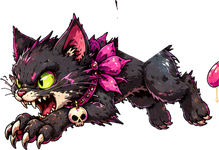
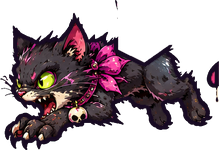
World 2 readability baked into the art (outlines, muted backgrounds, darker castle) plus shadows, pickup discs and red warning tint; World 1 untouched (test branch)
Claude-Session: https://claude.ai/code/session_01KtnnmncaZrvFEhmEP7SEfj

Changed region(s): [[0.1096, 0.08, 0.9589, 0.9067], [0.0, 0.1867, 0.274, 1.0], [0.9315, 0.4, 1.0, 0.6933]]

diff --git a/src/scenes/Run.js b/src/scenes/Run.js
@@ -3,6 +3,7 @@
 import { Gremlin } from '../gremlin/Gremlin.js';
 import { WORLDS, worldNo, loadMeadow } from '../worlds.js';
 import { Music } from '../audio/Music.js';
+import { shadow, gremlinShadow, makePickupDisc, dangerTint } from '../world/Readability.js';
 import { Frog, Gator, Bat, Spider } from '../creatures/Creatures.js';
 import { Bunny, Kitten, Flower, Swarm } from '../creatures/Meadow.js';
 
@@ -65,6 +66,9 @@ export class Run extends Phaser.Scene {
     this.shadowG = this.add.graphics().setDepth(4.6);   // dark contact shadows that sit hazards ON the path
     this.boxG = this.add.graphics().setDepth(30);
 
+    this.w2 = this.world === 2;   // World 2 readability extras (World 1 stays exactly as approved)
+    this.gremlinTex = this.w2 ? 'g2_' : 'g_';
+    if (this.w2) makePickupDisc(this);
     this.g = new Gremlin(this, GREMLIN_X, GROUND_Y, GREMLIN_H);
     this.g.floorAt = x => this.platformAt(x);
     this.g.idle();
@@ -122,7 +126,7 @@ export class Run extends Phaser.Scene {
     this.swamp.scroll(this.dist);
     this.updateItems(dt);
     const ctx = { gx: this.g.x, groundY: GROUND_Y, scroll: v * dt * (this.mode === 'ready' ? 0 : 1) };
-    for (const c of this.creatures) c.update(dt, ctx);
+    for (const c of this.creatures) { c.update(dt, ctx); if (this.w2) dangerTint(c, this.time.now / 1000); }
     for (const c of this.creatures) if (c.gone) c.destroy();
     this.creatures = this.creatures.filter(c => !c.gone);
     this.updateOrbs(dt);
@@ -140,11 +144,11 @@ export class Run extends Phaser.Scene {
       if (!it.obj && !it.done && x < W + 500) this.spawnItem(it, x);
       if (!it.obj) continue;
       it.obj.x = x;
-      if (PICKUPS.has(it.t)) it.obj.y = GROUND_Y - it.h + 8 * Math.sin(t * 3 + it.d);
+      if (PICKUPS.has(it.t)) { it.obj.y = GROUND_Y - it.h + 8 * Math.sin(t * 3 + it.d); it.disc?.setPosition(x, it.obj.y); }
       if (it.t === 'sludge' || it.t === 'sludgeWide') it.obj.scaleY = it.baseScale * (1 + 0.025 * Math.sin(t * 5 + it.d));   // slow bubbling heave
       if (it.t === 'vines') it.obj.rotation = 0.012 * Math.sin(t * 1.6 + it.d);                                                  // gentle sway
       if (it.glow) it.glow.outerStrength = 2.6 + 1.6 * (0.5 + 0.5 * Math.sin(t * 5));                                            // warning pulse
-      if (x < -600) { it.obj.destroy(); it.obj = null; it.done = true; }
+      if (x < -600) { it.obj.destroy(); it.disc?.destroy(); it.obj = null; it.done = true; }
       if (it.t === 'finish' && !it.reached && this.mode === 'running' && x <= GREMLIN_X) { it.reached = true; this.finish(); }
     }
   }
@@ -161,12 +165,13 @@ export class Run extends Phaser.Scene {
       const B = BEAM[it.lane], T = this.cache.json.get('meadowInfo').turret;
       o = this.add.image(x, GROUND_Y + B.sink, 'm_turret').setOrigin(0.35, 1).setScale(B.s * 2).setDepth(3.5);
       it.state = 'idle'; it.st = 0;
-      if (o.preFX) it.glow = o.preFX.addGlow(0xff4fd8, 2, 0, false, 0.1, 10);
+
     } else if (it.t === 'vines') {
       // a slimy branch hanging overhead: vine tips stop ~150 px above the ground, so you have to slide
       o = this.add.image(x, GROUND_Y - 140, L.key).setOrigin(0.5, 1).setScale(L.s).setDepth(9);
     } else if (PICKUPS.has(it.t)) {
       o = this.add.image(x, GROUND_Y - it.h, L.key).setScale(L.s).setDepth(7);
+      if (this.w2) it.disc = this.add.image(x, GROUND_Y - it.h, 'pickDisc').setDepth(6.9).setScale(0.78);   // dark disc behind pickups (World 2)
     } else if (L) {
       o = this.add.image(x, GROUND_Y + L.sink, L.key).setOrigin(0.5, 1).setScale(L.s).setDepth(5);
       it.baseScale = L.s;
@@ -216,7 +221,7 @@ export class Run extends Phaser.Scene {
     }
   }
   collect(it) {
-    it.done = true; const o = it.obj;
+    it.done = true; const o = it.obj; it.disc?.destroy(); it.disc = null;
     this.g.fx.burst([o.x, o.y], 0.4);
     this.tweens.add({ targets: o, scale: o.scale * 1.6, alpha: 0, duration: 200, onComplete: () => { o.destroy(); } });
     it.obj = null;
@@ -236,6 +241,10 @@ export class Run extends Phaser.Scene {
   drawHazardFx() {
     const G = this.hazG; G.clear(); const t = this.time.now / 1000;
     const S = this.shadowG; S.clear();
+    if (this.w2) {   // shadows under the gremlin and the ground creatures (World 2)
+      if (!this.g.dead) gremlinShadow(S, this.g);
+      for (const c of this.creatures) if (!c.dead && c.kind !== 'swarm') shadow(S, c.x, GROUND_Y, c.kind === 'flower' ? 230 : 180, c.y || 0);
+    }
     for (const it of this.items) {
       if (!it.obj || it.done) continue;
       const sw = SHADOW_W[it.t];
@@ -267,7 +276,7 @@ export class Run extends Phaser.Scene {
       else if (it.state === 'fire' && it.st >= BEAM.fire) { it.state = 'done'; it.st = 0; }
       if (it.state === 'warn') {   // the lens glows brighter and a sparkling guide line shows exactly where the beam will go
         const k = it.st / BEAM.warn, blink = 0.5 + 0.5 * Math.sin(now * (14 + 20 * k));
-        if (it.glow) it.glow.outerStrength = 2 + 8 * k;
+        o.setTint(Phaser.Display.Color.GetColor(255, Math.round(255 - 120 * k * blink), 255));   // the turret flushes pink as it charges
         G.fillStyle(0xff7ae0, 0.25 + 0.4 * k * blink).fillCircle(lensX, yc, 30 + 30 * k);
         for (let x = lensX - 40; x > -40; x -= 46) G.fillStyle(0xffffff, (0.25 + 0.55 * k) * (0.5 + 0.5 * Math.sin(now * 20 + x * 0.05))).fillCircle(x, yc, 4 + 3 * k);
         G.lineStyle(2, 0xff9ce8, 0.35 + 0.4 * k).lineBetween(-40, yc - th / 2, lensX, yc - th / 2).lineBetween(-40, yc + th / 2, lensX, yc + th / 2);
@@ -276,7 +285,7 @@ export class Run extends Phaser.Scene {
         const w = Math.max(0, lensX + 20); it.beam.setPosition(0, yc + 3 * Math.sin(now * 40)).setSize(w, th * 1.6).setTileScale(1, th * 1.6 / 200);
         it.beam.tilePositionX -= dt * 2400; it.beam.setAlpha(Math.min(1, it.st * 12, (BEAM.fire - it.st) * 10));
         G.fillStyle(0xffffff, 0.8).fillCircle(lensX, yc, th * 0.7);
-      } else if (it.beam) { it.beam.destroy(); it.beam = null; if (it.glow) it.glow.outerStrength = 2; }
+      } else if (it.beam) { it.beam.destroy(); it.beam = null; o.clearTint(); }
     }
   }
   blinded() {

diff --git a/src/creatures/Meadow.js b/src/creatures/Meadow.js
@@ -7,14 +7,13 @@ const clamp = (v, a, b) => Math.max(a, Math.min(b, v));
 const ease = k => (k < 0 ? 0 : k > 1 ? 1 : k * k * (3 - 2 * k));
 const rnd = (a, b) => a + Math.random() * (b - a);
 const D = Math.PI / 180;
-// the meadow is busy and bright: a light outline keeps every creature readable against the flowers
-function outline(p, col = 0xffffff) { for (const im of p.images) if (im.preFX) im.preFX.addGlow(col, 3, 0, false, 0.1, 6); return p; }
+
 
 // ---------------- Killer bunny: hops at the gremlin in low bounding leaps. Jump it or blast it. ----------------
 export class Bunny extends Creature {
   constructor(scene, x, groundY) {
     super(scene, x, 'bunny');
-    this.groundY = groundY; this.p = outline(new Puppet(scene, 'bunny', 0.5, ['body', 'ears']), 0xff3a6a);
+    this.groundY = groundY; this.p = new Puppet(scene, 'bunny', 0.5, ['body', 'ears']);
     this.R = this.p.R; this.points = 50; this.st = 'sit'; this.stT = rnd(0, 0.5); this.y = 0; this.hopT = 0;
   }
   update(dt, ctx) {
@@ -30,7 +29,10 @@ export class Bunny extends Creature {
       const gap = this.x - ctx.gx;
       if (this.st === 'sit') {   // twitchy nose, ears flicking
         sq = 1 + 0.03 * Math.sin(this.t * 12); ears = 8 * Math.sin(this.t * 11);
-        if (gap < 950 && gap > 0 && this.stT > 0.3) { this.st = 'hop'; this.hopT = 0; }
+        if (gap < 1000 && gap > 0 && this.stT > 0.3) { this.st = 'ready'; this.stT = 0; }
+      } else if (this.st === 'ready') {   // the warning: crouches low, ears flat
+        sq = 0.82; ears = -30;
+        if (this.stT > 0.4) { this.st = 'hop'; this.hopT = 0; }
       } else if (this.st === 'hop') {   // bounding leaps straight at the gremlin
         this.hopT += dt; const T = 0.44, u = (this.hopT % T) / T;
         this.y = 115 * 4 * u * (1 - u); this.x -= 360 * dt;
@@ -47,6 +49,7 @@ export class Bunny extends Creature {
     if (this.x < -400) this.gone = true;
   }
   onHurt() { this.st = 'recoil'; this.stT = 0; }
+  get warning() { return this.st === 'ready'; }
   hitbox() { if (this.dead) return null; return new Phaser.Geom.Rectangle(this.x - 85, this.groundY - this.y - 125, 165, 120); }
   get centre() { return [this.x, this.groundY - this.y - 60]; }
   destroy() { this.p.destroy(); }
@@ -56,7 +59,7 @@ export class Bunny extends Creature {
 export class Kitten extends Creature {
   constructor(scene, x, groundY) {
     super(scene, x, 'kitten');
-    this.groundY = groundY; this.p = outline(new Puppet(scene, 'kitten', 0.5, ['tail', 'body']), 0xfff0ff);
+    this.groundY = groundY; this.p = new Puppet(scene, 'kitten', 0.5, ['tail', 'body']);
     this.R = this.p.R; this.points = 50; this.st = 'crouch'; this.stT = 0; this.y = 0;
   }
   update(dt, ctx) {
@@ -94,6 +97,7 @@ export class Kitten extends Creature {
     if (this.x < -400) this.gone = true;
   }
   onHurt() { this.st = 'recoil'; this.stT = 0; }
+  get warning() { return this.st === 'wiggle' || this.st === 'pounce'; }
   hitbox() { if (this.dead) return null; return new Phaser.Geom.Rectangle(this.x - 105, this.groundY - this.y - 120, 200, 105); }
   get centre() { return [this.x, this.groundY - this.y - 55]; }
   destroy() { this.p.destroy(); }
@@ -103,7 +107,7 @@ export class Kitten extends Creature {
 export class Flower extends Creature {
   constructor(scene, x, groundY) {
     super(scene, x, 'flower');
-    this.groundY = groundY; this.p = outline(new Puppet(scene, 'flower', 0.56, ['body', 'head']), 0xffe14a);
+    this.groundY = groundY; this.p = new Puppet(scene, 'flower', 0.56, ['body', 'head']);
     this.R = this.p.R; this.points = 150; this.hp = 3; this.st = 'idle'; this.stT = 0; this.reach = 0;
   }
   update(dt, ctx) {
@@ -137,6 +141,7 @@ export class Flower extends Creature {
     if (this.x < -500) this.gone = true;
   }
   onHurt() { this.st = 'recoil'; this.stT = 0; }
+  get warning() { return this.st === 'rear' || this.st === 'snap'; }
   hitbox() {
     if (this.dead) return null;
     const w = 230 + this.reach;

diff --git a/src/world/Readability.js b/src/world/Readability.js
@@ -1,0 +1,38 @@
+// World 2 readability (15 Oct 2026). Outlines and muted backgrounds are baked into the image files themselves
+// (see the art notes in the GDD addendum); here are only the plain drawn extras, which work on every phone:
+// ground shadows, the disc behind pickups, and the red warning tint on enemies.
+
+export const DANGER_TINT = 0xff5a5a;
+
+/** Soft ground shadow (drawn into a Graphics each frame). h = how high above the ground the thing is. */
+export function shadow(G, x, groundY, w, h = 0) {
+  const k = Math.max(0.35, 1 - h / 500);
+  G.fillStyle(0x0a0510, 0.32 * k).fillEllipse(x, groundY + 4, w * k, 30 * k);
+  G.fillStyle(0x0a0510, 0.22 * k).fillEllipse(x, groundY + 4, w * 1.3 * k, 44 * k);
+}
+/** Shadow under the gremlin, on whatever surface is below him (ground or platform). */
+export function gremlinShadow(G, g) {
+  const surf = g.floorAt ? g.floorAt(g.x) : 0, h = Math.max(0, g.S.h * g.k - surf);
+  shadow(G, g.x + 10 * g.face, g.groundY - surf, 200, h);
+}
+/** The dark disc with a gold rim that sits behind every pickup. */
+export function makePickupDisc(scene) {
+  if (scene.textures.exists('pickDisc')) return;
+  const t = scene.textures.createCanvas('pickDisc', 160, 160), c = t.getContext();
+  const g = c.createRadialGradient(80, 80, 10, 80, 80, 72);
+  g.addColorStop(0, 'rgba(20,8,34,.78)'); g.addColorStop(0.75, 'rgba(20,8,34,.62)'); g.addColorStop(1, 'rgba(20,8,34,0)');
+  c.fillStyle = g; c.beginPath(); c.arc(80, 80, 72, 0, Math.PI * 2); c.fill();
+  c.strokeStyle = 'rgba(255,240,170,.9)'; c.lineWidth = 4; c.beginPath(); c.arc(80, 80, 56, 0, Math.PI * 2); c.stroke();
+  t.refresh();
+}
+/** Pulse a creature red while it winds up an attack (a plain tint: no special effects). */
+export function dangerTint(c, t) {
+  const on = c.warning && !c.dead;
+  if (on === c._warnOn && !on) return;
+  c._warnOn = on;
+  if (c.flashT > 0) return;   // the white hit-flash wins
+  for (const im of c.p.images) {
+    if (on) { const k = 0.5 + 0.5 * Math.sin(t * 22); im.setTint(Phaser.Display.Color.GetColor(255, Math.round(255 - 150 * k), Math.round(255 - 150 * k))); }
+    else im.clearTint();
+  }
+}

diff --git a/src/scenes/Overlord.js b/src/scenes/Overlord.js
@@ -9,6 +9,7 @@ import { Gremlin } from '../gremlin/Gremlin.js';
 import { Catalytik, ease } from '../overlord/Catalytik.js';
 import { Music } from '../audio/Music.js';
 import { loadMeadow } from '../worlds.js';
+import { shadow, gremlinShadow, makePickupDisc } from '../world/Readability.js';
 
 const W = 1920;
 const GREM_H = 330, BOSS_H = 620;
@@ -74,6 +75,8 @@ export class Overlord extends Boss {
     this.sparkG = this.add.graphics().setDepth(13).setBlendMode(Phaser.BlendModes.ADD);
     this.boxG = this.add.graphics().setDepth(30);
 
+    this.gremlinTex = 'g2_'; makePickupDisc(this); this.pickupDiscs = true;
+    this.shadowG = this.add.graphics().setDepth(4.6);
     this.g = new Gremlin(this, 420, GROUND_Y, GREM_H);
     this.g.arena = { minX: 110, maxX: 1820 };
     this.g.floorAt = x => { for (const p of PLATFORMS) if (x >= p.x0 && x <= p.x1) return p.h; return 0; };
@@ -94,7 +97,7 @@ export class Overlord extends Boss {
     Music.play(this, 'boss');
     // her floating rainbow castle (cover the screen)
     const bg = this.add.image(W / 2, H / 2, 'm_arena_bg').setDepth(0);
-    bg.setScale(Math.max(W / bg.width, H / bg.height)); bg.setTint(0xd8d2e8);
+    bg.setScale(Math.max(W / bg.width, H / bg.height));   // (greyed, darkened and banded in the file itself)
     // the crystal floor: its walking surface sits on GROUND_Y
     const info = this.cache.json.get('meadowInfo');
     const F = info.arena_floor, fs = W / F.w * 1.02;
@@ -367,6 +370,9 @@ export class Overlord extends Boss {
     this.updateMeadow(dt);
     this.updatePickups(dt);
     if (this.mode === 'running') this.collide(dt);
+    const S = this.shadowG; S.clear();
+    if (!this.g.dead) gremlinShadow(S, this.g);
+    if (this.e.sink < 100 && !this.flowerbed) shadow(S, this.e.x, GROUND_Y - this.e.floor, 330, this.e.air);
     const b = this.bubble;
     if (b.visible) { b.life -= dt; const h = this.e.headTop(); b.setPosition(clamp(h[0] - 40, 340, W - 340), clamp(h[1] - 30, 200 + b.hh, GROUND_Y - 260)); b.setAlpha(Math.min(1, b.life * 4)); if (b.life <= 0) b.setVisible(false); }
     this.drawBoxes();

diff --git a/src/scenes/Boss.js b/src/scenes/Boss.js
@@ -404,7 +404,8 @@ export class Boss extends Phaser.Scene {
   }
   addPickup(type, x, y) {
     const img = this.add.image(x, y, 'pick_' + type).setDepth(6).setScale(type === 'crystal' ? 0.42 : 0.47);
-    this.pickups.push({ type, x, y, img, t: Math.random() * 6 });
+    const disc = this.pickupDiscs ? this.add.image(x, y, 'pickDisc').setDepth(5.9).setScale(0.78) : null;   // World 2 only
+    this.pickups.push({ type, x, y, img, disc, t: Math.random() * 6 });
   }
   takeHit(src = '') {
     const g = this.g;
@@ -557,10 +558,11 @@ export class Boss extends Phaser.Scene {
     }
     const hb = g.hitbox();
     for (const p of this.pickups) {
-      p.t += dt; p.img.y = p.y + 8 * Math.sin(p.t * 3);
+      p.t += dt; p.img.y = p.y + 8 * Math.sin(p.t * 3); p.disc?.setY(p.img.y);
       if (hb && !p.dead && Phaser.Geom.Intersects.RectangleToRectangle(hb, new Phaser.Geom.Rectangle(p.x - 35, p.img.y - 45, 70, 90))) {
         if (p.type === 'crystal') { p.dead = true; this.chaos = Math.min(100, this.chaos + 10); this.events.emit('chaos', this.chaos); g.fx.burst([p.x, p.img.y], 0.45); }
         else if (p.type === 'potion' && this.hearts < MAX_HEARTS) { p.dead = true; this.hearts++; this.events.emit('hearts', this.hearts); }
+        if (p.dead) p.disc?.destroy();
         if (p.dead) this.tweens.add({ targets: p.img, scale: 1.6, alpha: 0, duration: 200, onComplete: () => p.img.destroy() });
       }
     }

diff --git a/src/worlds.js b/src/worlds.js
@@ -2,6 +2,7 @@
 import { STAGE1, STAGE2, W2_STAGE1, W2_STAGE2 } from './course.js';
 import { Swamp, Meadow, MEADOW_FILES } from './world/Swamp.js';
 import { MEADOW_CREATURE_PARTS } from './creatures/Creatures.js';
+import { PARTS } from './scenes/Boot.js';
 
 export const WORLDS = {
   1: {
@@ -23,6 +24,7 @@ export const worldNo = registry => registry.get('world') || 1;
 /** Queue World 2's art on a scene's loader (only what isn't loaded yet). Call from preload(). */
 export function loadMeadow(scene) {
   for (const [k, f] of Object.entries(MEADOW_FILES)) if (!scene.textures.exists(k)) scene.load.image(k, f);
+  for (const n of PARTS) if (!scene.textures.exists('g2_' + n)) scene.load.image('g2_' + n, `assets/gremlin2/${n}.png`);   // gremlin with a dark outline
   if (!scene.cache.json.exists('meadowInfo')) scene.load.json('meadowInfo', 'assets/meadow/meadow.json');
   for (const [kind, parts] of Object.entries(MEADOW_CREATURE_PARTS)) for (const n of parts) if (!scene.textures.exists(`c_${kind}_${n}`)) scene.load.image(`c_${kind}_${n}`, `assets/creatures/${kind}_${n}.png`);
 }

diff --git a/src/gremlin/Gremlin.js b/src/gremlin/Gremlin.js
@@ -88,7 +88,7 @@ export class Gremlin extends Phaser.Events.EventEmitter {
     };
     const img = (name, parent) => {
       const p = R[name];
-      const im = sc.add.image(p.x - p.px, p.y - p.py, 'g_' + name).setOrigin(0, 0);
+      const im = sc.add.image(p.x - p.px, p.y - p.py, (sc.gremlinTex || 'g_') + name).setOrigin(0, 0);   // World 2 uses the outlined copy (g2_)
       parent.add(im); (this.images ||= []).push(im); return im;
     };
     // back-to-front drawing order
